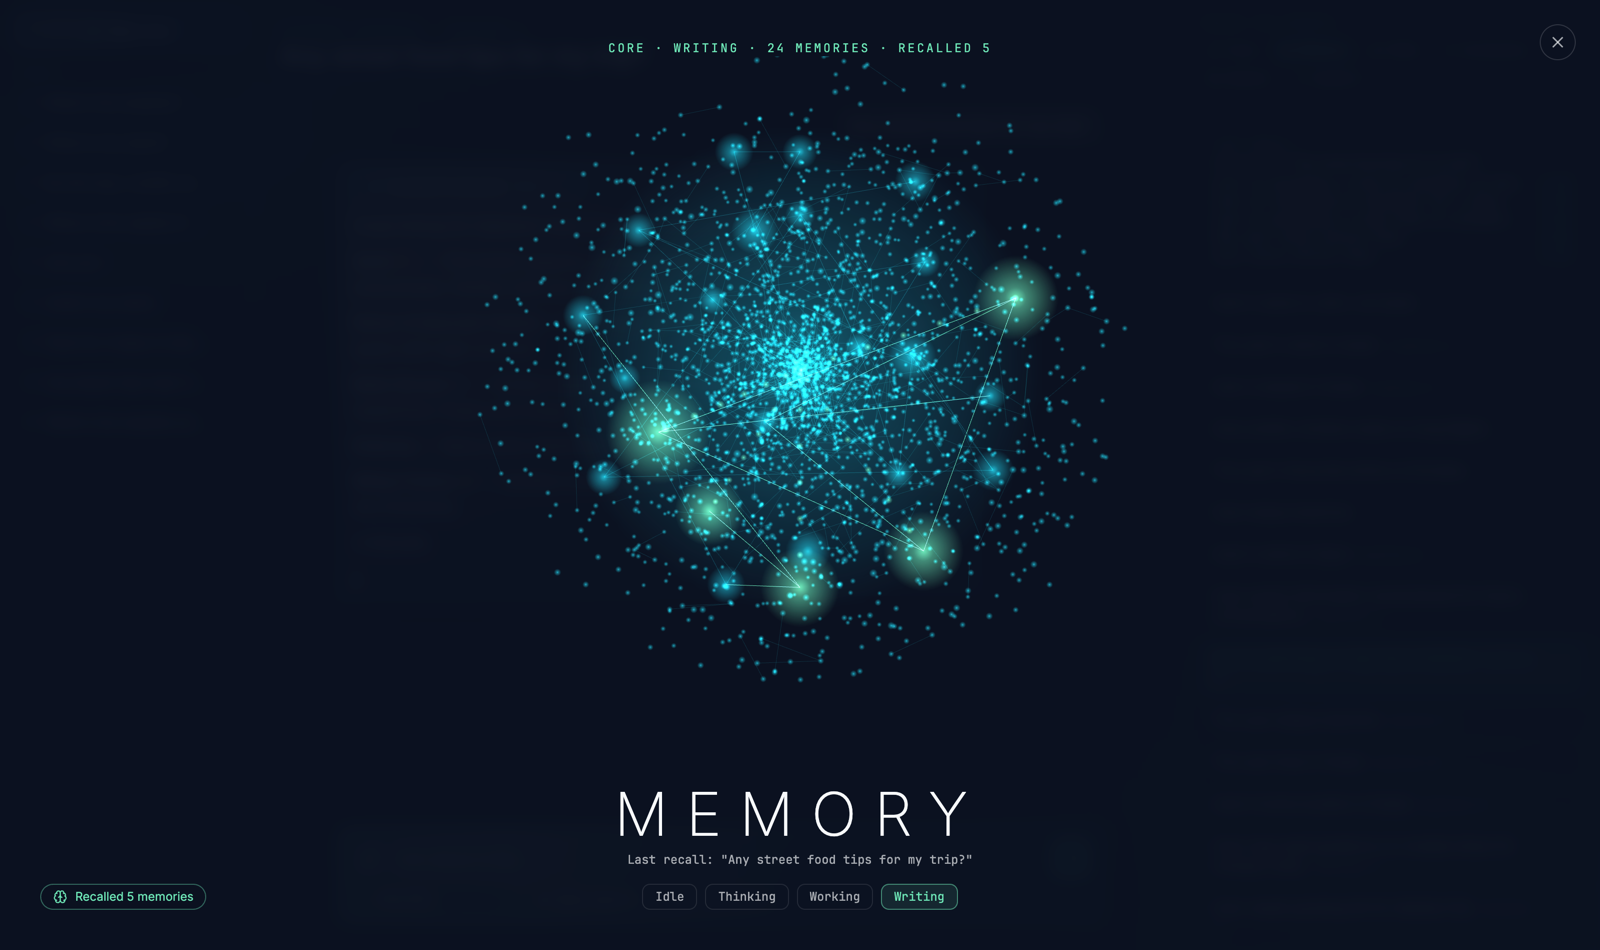
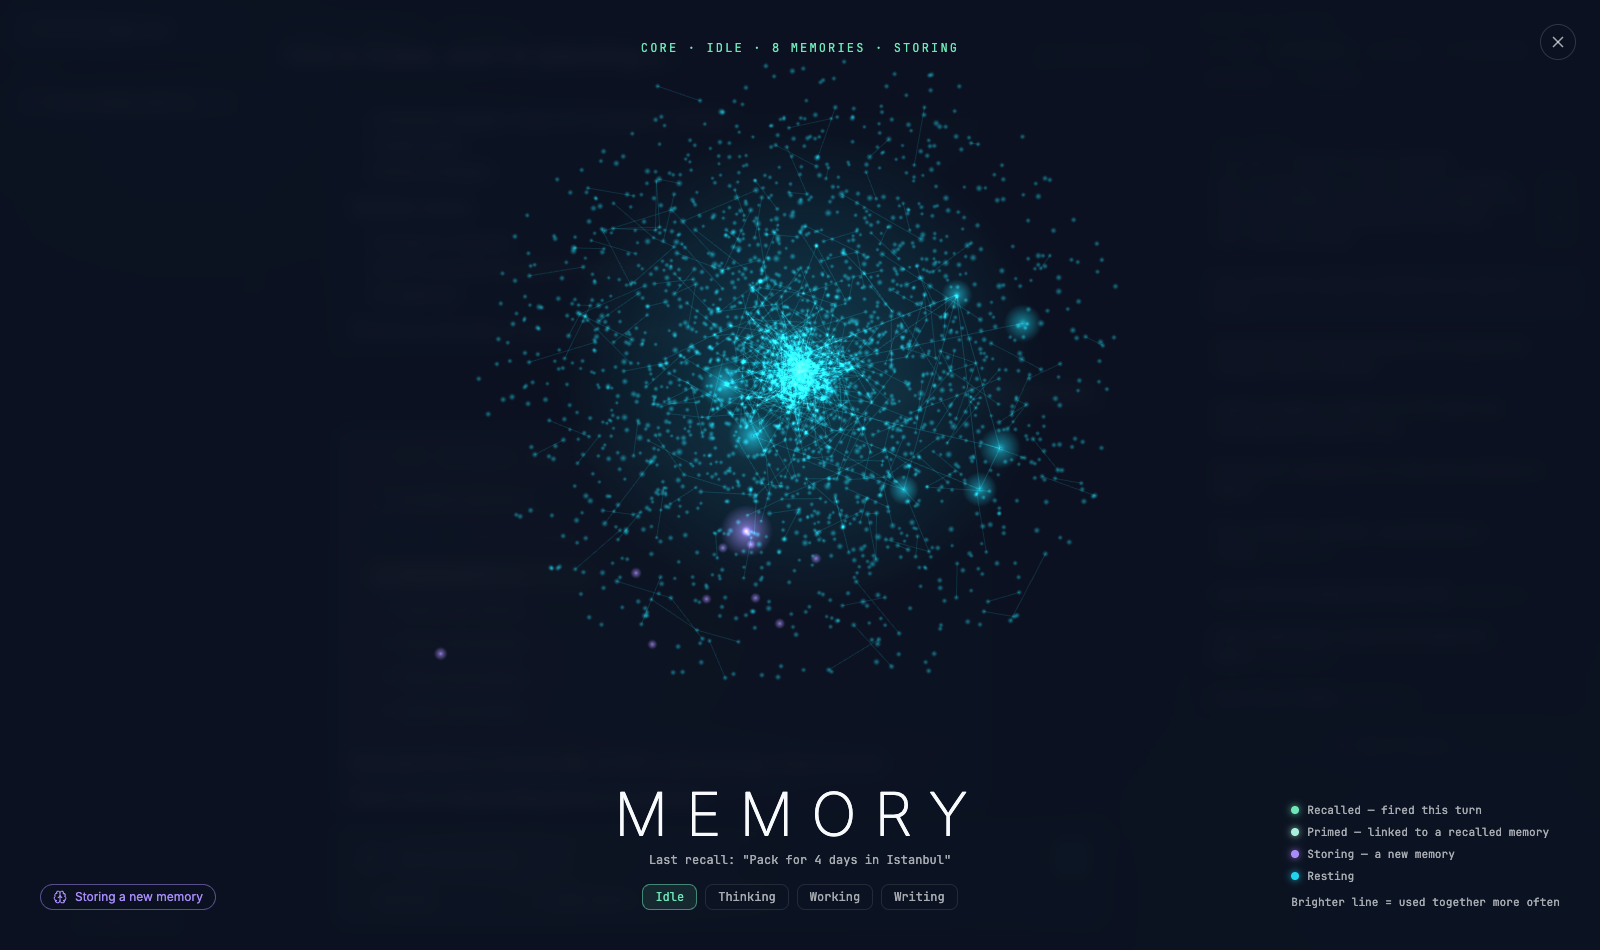
README and screenshots: lab 11 how-it-works page, clear all, fresh screenshots

diff --git a/README.md b/README.md
@@ -166,6 +166,9 @@ The finished travel assistant as a web app that shows everything the harness doe
 - **Connectors** — turn on MCP servers (AWS Documentation, the chat's files, or your own command).
 - **Skills** — add one from the Skills tab: a `SKILL.md`, or the skill folder as a `.zip` with its references.
 - **Inside the harness** — tools, skills, session, connectors, and every System 1 decision.
+- **How it works** — a click-through of one turn: the Agent at the centre, calling the session, memory, skills,
+  System 1, the LLM and tools in order, one step per click.
+- **Clear all** — delete every chat from the sidebar, or every memory from the Memory tab.
 - **The memory core** — a rotating nebula of your memories. Recalled notes fire in green (hover a chip to
   see what was searched and each note's score); newly saved notes arrive in violet; forget any note.
   System 1 decides what to recall: for each note it answers *"would this fact help answer the message?"*,
@@ -221,6 +224,7 @@ Runtime data (chats, sessions, files, memory) lives in `lab11/data/`; `./cleanup
 
 ![Lab 11: chat history, recalled memories and System 1 decisions](docs/lab11.png)
 ![The memory core](docs/lab11-memory.png)
+![How it works: one turn, step by step](docs/lab11-architecture.png)
 
 ## 🧠 What is a System 1 model?
 
